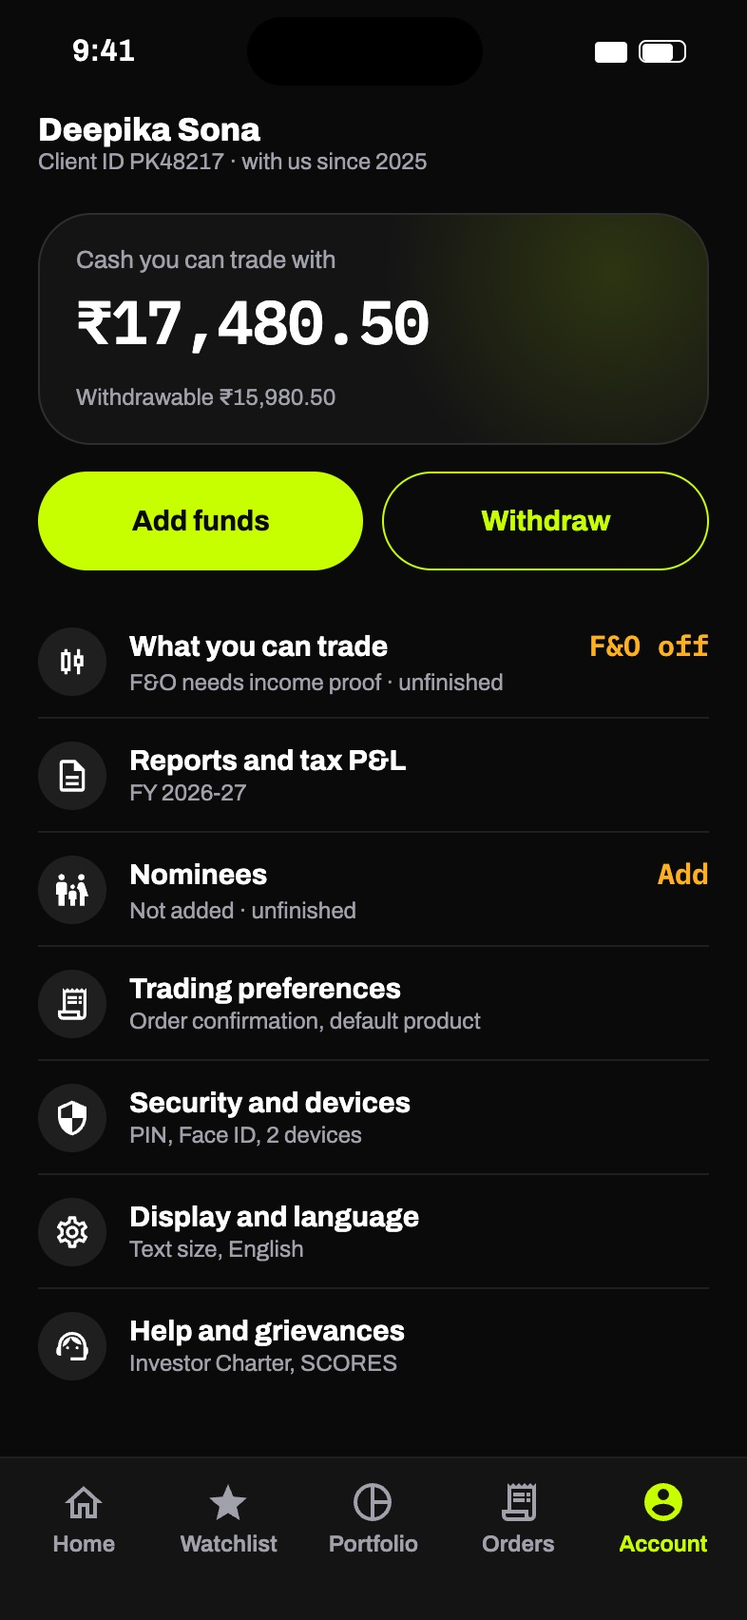
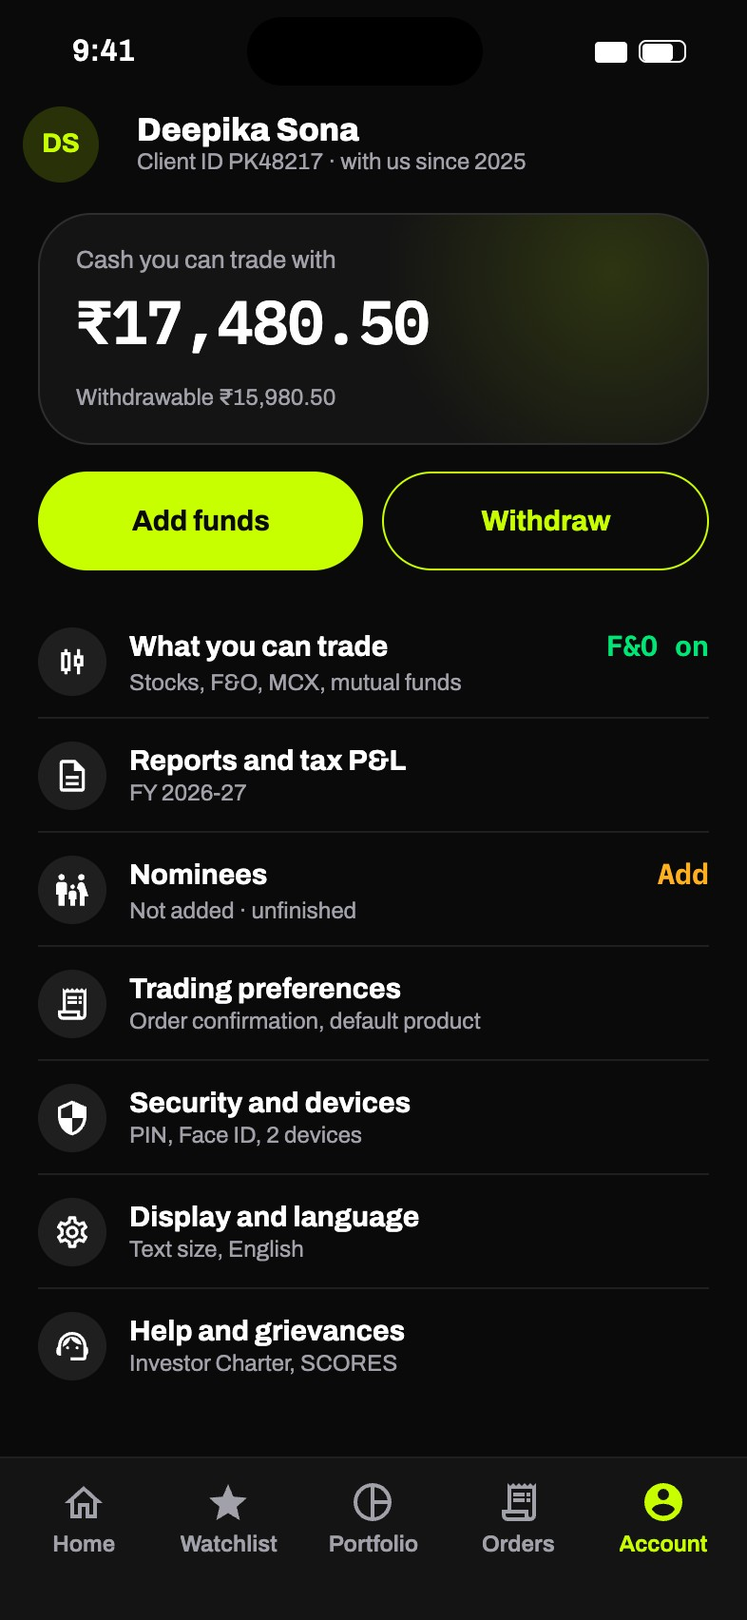
Update Pocket's Account screen and add wireframe round 29

Changed region(s): [[0.0305, 0.0622, 0.7023, 0.1244], [0.1832, 0.4043, 0.6718, 0.4354], [0.7939, 0.3732, 0.9466, 0.4043]]

diff --git a/Pocket App Wireframes.dc.html b/Pocket App Wireframes.dc.html
@@ -63,7 +63,7 @@ details.dv-body>summary{margin-bottom:10px}
 
 <section class="dv-index">
 <h1>Pocket &mdash; wireframe stack</h1>
-<p>Twenty-eight rounds in flow order. Each round is collapsed; open the one you want. Reference an option by its id in chat &mdash; 1a, 5a, 6a.</p>
+<p>Twenty-nine rounds in flow order. Each round is collapsed; open the one you want. Reference an option by its id in chat &mdash; 1a, 5a, 6a.</p>
 <div class="dv-ix">
 <a class="dv-ixrow" href="#t1"><span class="dv-ixn">1</span>Getting in<span class="dv-ixold">1a</span><span class="dv-ixdone">final</span></a>
 <a class="dv-ixrow" href="#t2"><span class="dv-ixn">2</span>Home<span class="dv-ixold">2a</span><span class="dv-ixdone">final</span></a>
@@ -93,6 +93,7 @@ details.dv-body>summary{margin-bottom:10px}
 <a class="dv-ixrow" href="#t26"><span class="dv-ixn">26</span>Indices, movers and news<span class="dv-ixold">26a &middot; 26b</span></a>
 <a class="dv-ixrow" href="#t27"><span class="dv-ixn">27</span>Commodities and option chain<span class="dv-ixold">27a&ndash;27c</span></a>
 <a class="dv-ixrow" href="#t28"><span class="dv-ixn">28</span>Screen states from the 14 Nov hi-fi<span class="dv-ixold">28a&ndash;28c</span></a>
+<a class="dv-ixrow" href="#t29"><span class="dv-ixn">29</span>Account and funds changes in the hi-fi after 11 Nov<span class="dv-ixold">29a &middot; 29b</span></a>
 </div>
 </section>
 
@@ -4592,6 +4593,14 @@ details.dv-body>summary{margin-bottom:10px}
 <div class="dv-opt" id="28a"><p style="margin:0 0 10px;font:400 12px/1.55 system-ui,sans-serif;color:rgba(0,0,0,.5);max-width:78ch">The chips on Positions, Tradebook, Top movers and IPOs were drawn in one state and did nothing in the app. Each now filters the list, and totals follow: the positions P&amp;L is the sum of what is shown, and the tradebook names the count for that period and segment. An empty filter says what would show there.</p><div class="dv-olabel"><a class="dv-oid" href="#28a">28a</a>Filters that filter: positions, tradebook, IPOs, movers</div><div class="dv-card" style="padding:22px;background:#faf9f6;display:flex;flex-wrap:wrap;gap:20px"><div style="width:250px;height:560px;border:1.5px solid #1a1a1a;border-radius:20px;background:#fff;box-sizing:border-box;padding:10px 12px;display:flex;flex-direction:column;gap:9px;font-family:'Architects Daughter',cursive"><div style="display:flex;justify-content:space-between;font-size:10px;color:#888">9:41<span>&#9679;&#9679;&#9679;</span></div><div style="display:flex;flex-direction:column"><span style="font-size:12px">Portfolio</span><span style="font-size:8px;color:#666">Positions</span></div><div style="display:flex;gap:4px;flex-wrap:wrap"><span style="font-size:8.5px;padding:3px 8px;border:1.2px solid #1a1a1a;border-radius:12px;background:#fff">All 2</span><span style="font-size:8.5px;padding:3px 8px;border:1.2px solid #1a1a1a;border-radius:12px;background:#CCFF00">F&amp;O 1</span><span style="font-size:8.5px;padding:3px 8px;border:1.2px solid #1a1a1a;border-radius:12px;background:#fff">Equity 1</span><span style="font-size:8.5px;padding:3px 8px;border:1.2px solid #1a1a1a;border-radius:12px;background:#fff">MCX 0</span></div><div style="border:1.2px solid #1a1a1a;border-radius:8px;padding:6px 8px;display:flex;flex-direction:column;gap:3px"><div style="display:flex;justify-content:space-between;font-size:8.5px"><span style="color:#666">Positions P&amp;L today</span><span>+₹988</span></div></div><div style="display:flex;flex-direction:column"><div style="display:flex;justify-content:space-between;gap:6px;padding:5px 0;border-bottom:1px solid #ddd"><div style="display:flex;flex-direction:column;min-width:0"><span style="font-size:10px">NIFTY 24800 CE</span><span style="font-size:7.5px;color:#666">NFO · Intraday · 130 qty</span></div><div style="display:flex;flex-direction:column;align-items:flex-end"><span style="font-size:9.5px">+₹988</span><span style="font-size:7.5px;color:#666">LTP ₹106.20</span></div></div></div><span style="font-size:8px;color:#666;line-height:1.4">MCX 0 shows &quot;No MCX positions&quot; and where commodities trade.</span><div style="margin-top:auto;display:flex;justify-content:space-around;font-size:8px;color:#888;border-top:1px solid #ddd;padding-top:5px"><span>Home</span><span>Watchlist</span><span>Portfolio</span><span>Orders</span><span>Account</span></div></div><div style="width:250px;height:560px;border:1.5px solid #1a1a1a;border-radius:20px;background:#fff;box-sizing:border-box;padding:10px 12px;display:flex;flex-direction:column;gap:9px;font-family:'Architects Daughter',cursive"><div style="display:flex;justify-content:space-between;font-size:10px;color:#888">9:41<span>&#9679;&#9679;&#9679;</span></div><div style="display:flex;flex-direction:column"><span style="font-size:12px">&larr; &nbsp;Tradebook</span><span style="font-size:8px;color:#666">Every executed trade</span></div><div style="display:flex;gap:4px;flex-wrap:wrap"><span style="font-size:8.5px;padding:3px 8px;border:1.2px solid #1a1a1a;border-radius:12px;background:#CCFF00">This month</span><span style="font-size:8.5px;padding:3px 8px;border:1.2px solid #1a1a1a;border-radius:12px;background:#fff">Last 3 months</span><span style="font-size:8.5px;padding:3px 8px;border:1.2px solid #1a1a1a;border-radius:12px;background:#fff">FY 2025-26</span><span style="font-size:8.5px;padding:3px 8px;border:1.2px solid #1a1a1a;border-radius:12px;background:#fff">Custom</span></div><div style="display:flex;gap:4px;flex-wrap:wrap"><span style="font-size:8.5px;padding:3px 8px;border:1.2px solid #1a1a1a;border-radius:12px;background:#fff">All</span><span style="font-size:8.5px;padding:3px 8px;border:1.2px solid #1a1a1a;border-radius:12px;background:#fff">Equity</span><span style="font-size:8.5px;padding:3px 8px;border:1.2px solid #1a1a1a;border-radius:12px;background:#CCFF00">F&amp;O</span><span style="font-size:8.5px;padding:3px 8px;border:1.2px solid #1a1a1a;border-radius:12px;background:#fff">MCX</span><span style="font-size:8.5px;padding:3px 8px;border:1.2px solid #1a1a1a;border-radius:12px;background:#fff">MF</span></div><div style="display:flex;flex-direction:column"><div style="display:flex;justify-content:space-between;gap:6px;padding:5px 0;border-bottom:1px solid #ddd"><div style="display:flex;flex-direction:column;min-width:0"><span style="font-size:10px">NIFTY 24800 CE · Buy</span><span style="font-size:7.5px;color:#666">130 at ₹98.60 · NRML</span></div><div style="display:flex;flex-direction:column;align-items:flex-end"><span style="font-size:9.5px">22 Oct</span><span style="font-size:7.5px;color:#666">10:02 am</span></div></div></div><span style="font-size:8px;color:#666;line-height:1.4">11 F&amp;O trades in October.</span><div style="margin-top:auto;border:1.5px solid #1a1a1a;border-radius:14px;padding:7px;text-align:center;font-size:10px;background:#CCFF00">Download PDF</div></div><div style="width:250px;height:560px;border:1.5px solid #1a1a1a;border-radius:20px;background:#fff;box-sizing:border-box;padding:10px 12px;display:flex;flex-direction:column;gap:9px;font-family:'Architects Daughter',cursive"><div style="display:flex;justify-content:space-between;font-size:10px;color:#888">9:41<span>&#9679;&#9679;&#9679;</span></div><div style="display:flex;flex-direction:column"><span style="font-size:12px">IPOs</span><span style="font-size:8px;color:#666"></span></div><div style="display:flex;gap:12px;font-size:9px;border-bottom:1px solid #ddd"><span style="padding-bottom:3px;color:#888">Open 7</span><span style="padding-bottom:3px;color:#888">Upcoming 23</span><span style="padding-bottom:3px;border-bottom:2px solid #1a1a1a;font-weight:700">Applied 2</span><span style="padding-bottom:3px;color:#888">Closed</span></div><div style="display:flex;gap:4px;flex-wrap:wrap"><span style="font-size:8.5px;padding:3px 8px;border:1.2px solid #1a1a1a;border-radius:12px;background:#CCFF00">All</span><span style="font-size:8.5px;padding:3px 8px;border:1.2px solid #1a1a1a;border-radius:12px;background:#fff">Mainboard</span><span style="font-size:8.5px;padding:3px 8px;border:1.2px solid #1a1a1a;border-radius:12px;background:#fff">SME</span></div><div style="display:flex;flex-direction:column"><div style="display:flex;justify-content:space-between;gap:6px;padding:5px 0;border-bottom:1px solid #ddd"><div style="display:flex;flex-direction:column;min-width:0"><span style="font-size:10px">Lalithaa Jewellery Mart · Applied</span><span style="font-size:7.5px;color:#666">Allotment Thu 20 Aug</span></div><div style="display:flex;flex-direction:column;align-items:flex-end"><span style="font-size:9.5px">2 lots</span><span style="font-size:7.5px;color:#666">₹29,748 blocked</span></div></div><div style="display:flex;justify-content:space-between;gap:6px;padding:5px 0;border-bottom:1px solid #ddd"><div style="display:flex;flex-direction:column;min-width:0"><span style="font-size:10px">ENS Enterprises · Pending</span><span style="font-size:7.5px;color:#666">Approve the UPI request by 5 pm</span></div><div style="display:flex;flex-direction:column;align-items:flex-end"><span style="font-size:9.5px">1 lot</span><span style="font-size:7.5px;color:#666">₹1,10,400</span></div></div></div><div style="margin-top:auto;display:flex;justify-content:space-around;font-size:8px;color:#888;border-top:1px solid #ddd;padding-top:5px"><span>Home</span><span>Watchlist</span><span>Portfolio</span><span>Orders</span><span>Account</span></div></div></div></div>
 <div class="dv-opt" id="28b"><p style="margin:0 0 10px;font:400 12px/1.55 system-ui,sans-serif;color:rgba(0,0,0,.5);max-width:78ch">Apply for an IPO picks the category and the lots on one screen; the button names the lots and the amount (&quot;Apply for 3 lots · ₹44,622&quot;). HNI starts above ₹2 lakh and bids a price; Employee gets ₹10 off. Pause SIP shows what is skipped and when it restarts for each length. Edit SIP can move the date: the Date tile opens the date picker, and the new date applies from the next open instalment.</p><div class="dv-olabel"><a class="dv-oid" href="#28b">28b</a>IPO category and lots, SIP pause and date</div><div class="dv-card" style="padding:22px;background:#faf9f6;display:flex;flex-wrap:wrap;gap:20px"><div style="width:250px;height:560px;border:1.5px solid #1a1a1a;border-radius:20px;background:#fff;box-sizing:border-box;padding:10px 12px;display:flex;flex-direction:column;gap:9px;font-family:'Architects Daughter',cursive"><div style="display:flex;justify-content:space-between;font-size:10px;color:#888">9:41<span>&#9679;&#9679;&#9679;</span></div><div style="display:flex;flex-direction:column"><span style="font-size:12px">&larr; &nbsp;Apply for Lalithaa</span><span style="font-size:8px;color:#666">Closes 19 Aug, 5 pm</span></div><div style="display:flex;gap:12px;font-size:9px;border-bottom:1px solid #ddd"><span style="padding-bottom:3px;border-bottom:2px solid #1a1a1a;font-weight:700">Retail</span><span style="padding-bottom:3px;color:#888">HNI</span><span style="padding-bottom:3px;color:#888">Employee</span></div><div style="display:grid;grid-template-columns:1fr 1fr;gap:5px"><div style="border:1.2px solid #1a1a1a;border-radius:8px;padding:5px 7px;display:flex;justify-content:space-between;align-items:center"><div style="display:flex;flex-direction:column"><span style="font-size:7.5px;color:#666">Lots</span><span style="font-size:10px">3</span></div><span style="font-size:10px;letter-spacing:6px">&minus;+</span></div><div style="border:1.2px solid #1a1a1a;border-radius:8px;padding:5px 7px;display:flex;justify-content:space-between;align-items:center"><div style="display:flex;flex-direction:column"><span style="font-size:7.5px;color:#666">Shares</span><span style="font-size:10px">222</span></div></div><div style="border:1.2px solid #1a1a1a;border-radius:8px;padding:5px 7px;display:flex;justify-content:space-between;align-items:center"><div style="display:flex;flex-direction:column"><span style="font-size:7.5px;color:#666">Bid price</span><span style="font-size:10px">₹201 (cut-off)</span></div></div><div style="border:1.2px solid #1a1a1a;border-radius:8px;padding:5px 7px;display:flex;justify-content:space-between;align-items:center"><div style="display:flex;flex-direction:column"><span style="font-size:7.5px;color:#666">Amount</span><span style="font-size:10px">₹44,622</span></div></div></div><div style="border:1.2px solid #1a1a1a;border-radius:8px;padding:6px 8px;display:flex;flex-direction:column;gap:3px"><div style="display:flex;justify-content:space-between;font-size:8.5px"><span style="color:#666">UPI ID</span><span>deepika@okhdfc</span></div></div><span style="font-size:8px;color:#666;line-height:1.4">₹44,622 will be blocked in your UPI until allotment on 20 Aug.</span><div style="margin-top:auto;border:1.5px solid #1a1a1a;border-radius:14px;padding:7px;text-align:center;font-size:10px;background:#CCFF00">Apply for 3 lots · ₹44,622</div></div><div style="width:250px;height:560px;border:1.5px solid #1a1a1a;border-radius:20px;background:#fff;box-sizing:border-box;padding:10px 12px;display:flex;flex-direction:column;gap:9px;font-family:'Architects Daughter',cursive"><div style="display:flex;justify-content:space-between;font-size:10px;color:#888">9:41<span>&#9679;&#9679;&#9679;</span></div><div style="display:flex;flex-direction:column"><span style="font-size:12px">&larr; &nbsp;Pause SIP</span><span style="font-size:8px;color:#666">Parag Parikh Flexi Cap · ₹5,000 on the 5th</span></div><span style="font-size:15px">For how long?</span><div style="display:flex;gap:4px;flex-wrap:wrap"><span style="font-size:8.5px;padding:3px 8px;border:1.2px solid #1a1a1a;border-radius:12px;background:#fff">1 month</span><span style="font-size:8.5px;padding:3px 8px;border:1.2px solid #1a1a1a;border-radius:12px;background:#fff">2 months</span><span style="font-size:8.5px;padding:3px 8px;border:1.2px solid #1a1a1a;border-radius:12px;background:#CCFF00">3 months</span><span style="font-size:8.5px;padding:3px 8px;border:1.2px solid #1a1a1a;border-radius:12px;background:#fff">6 months</span></div><div style="border:1.2px solid #1a1a1a;border-radius:8px;padding:6px 8px;display:flex;flex-direction:column;gap:3px"><div style="display:flex;justify-content:space-between;font-size:8.5px"><span style="color:#666">Skipped</span><span>5 Oct to 5 Dec</span></div><div style="display:flex;justify-content:space-between;font-size:8.5px"><span style="color:#666">Restarts on its own</span><span>Tue 5 Jan</span></div><div style="display:flex;justify-content:space-between;font-size:8.5px"><span style="color:#666">5 Sep debit</span><span>Goes ahead</span></div></div><div style="margin-top:auto;border:1.5px solid #1a1a1a;border-radius:14px;padding:7px;text-align:center;font-size:10px;background:#CCFF00">Pause for 3 months</div></div><div style="width:250px;height:560px;border:1.5px solid #1a1a1a;border-radius:20px;background:#fff;box-sizing:border-box;padding:10px 12px;display:flex;flex-direction:column;gap:9px;font-family:'Architects Daughter',cursive"><div style="display:flex;justify-content:space-between;font-size:10px;color:#888">9:41<span>&#9679;&#9679;&#9679;</span></div><div style="display:flex;flex-direction:column"><span style="font-size:12px">&larr; &nbsp;Edit SIP</span><span style="font-size:8px;color:#666">Parag Parikh Flexi Cap · Date</span></div><span style="font-size:15px">Which day each month?</span><div style="display:flex;gap:4px;flex-wrap:wrap"><span style="font-size:8.5px;padding:3px 8px;border:1.2px solid #1a1a1a;border-radius:12px;background:#fff">1st</span><span style="font-size:8.5px;padding:3px 8px;border:1.2px solid #1a1a1a;border-radius:12px;background:#fff">5th</span><span style="font-size:8.5px;padding:3px 8px;border:1.2px solid #1a1a1a;border-radius:12px;background:#CCFF00">10th</span><span style="font-size:8.5px;padding:3px 8px;border:1.2px solid #1a1a1a;border-radius:12px;background:#fff">15th</span><span style="font-size:8.5px;padding:3px 8px;border:1.2px solid #1a1a1a;border-radius:12px;background:#fff">20th</span><span style="font-size:8.5px;padding:3px 8px;border:1.2px solid #1a1a1a;border-radius:12px;background:#fff">25th</span></div><span style="font-size:8px;color:#666;line-height:1.4">The 5 Sep debit stays as it is. The new date applies from Sat 10 Oct.</span><div style="margin-top:auto;border:1.5px solid #1a1a1a;border-radius:14px;padding:7px;text-align:center;font-size:10px;background:#CCFF00">Use the 10th</div></div></div></div>
 <div class="dv-opt" id="28c"><p style="margin:0 0 10px;font:400 12px/1.55 system-ui,sans-serif;color:rgba(0,0,0,.5);max-width:78ch">Home › Products › Bonds opened one bond and ETFs opened one ETF. Each now opens a list with type filters, and a row opens the detail. Add a nominee takes a second nominee: shares split to 50% each, with a way to remove the second one.</p><div class="dv-olabel"><a class="dv-oid" href="#28c">28c</a>Bonds and ETF lists, a second nominee</div><div class="dv-card" style="padding:22px;background:#faf9f6;display:flex;flex-wrap:wrap;gap:20px"><div style="width:250px;height:560px;border:1.5px solid #1a1a1a;border-radius:20px;background:#fff;box-sizing:border-box;padding:10px 12px;display:flex;flex-direction:column;gap:9px;font-family:'Architects Daughter',cursive"><div style="display:flex;justify-content:space-between;font-size:10px;color:#888">9:41<span>&#9679;&#9679;&#9679;</span></div><div style="display:flex;flex-direction:column"><span style="font-size:12px">Bonds</span><span style="font-size:8px;color:#666">Government and PSU · bids close 5 pm</span></div><div style="display:flex;gap:4px;flex-wrap:wrap"><span style="font-size:8.5px;padding:3px 8px;border:1.2px solid #1a1a1a;border-radius:12px;background:#CCFF00">All</span><span style="font-size:8.5px;padding:3px 8px;border:1.2px solid #1a1a1a;border-radius:12px;background:#fff">G-Sec</span><span style="font-size:8.5px;padding:3px 8px;border:1.2px solid #1a1a1a;border-radius:12px;background:#fff">State</span><span style="font-size:8.5px;padding:3px 8px;border:1.2px solid #1a1a1a;border-radius:12px;background:#fff">T-Bill</span><span style="font-size:8.5px;padding:3px 8px;border:1.2px solid #1a1a1a;border-radius:12px;background:#fff">PSU</span></div><div style="display:flex;flex-direction:column"><div style="display:flex;justify-content:space-between;gap:6px;padding:5px 0;border-bottom:1px solid #ddd"><div style="display:flex;flex-direction:column;min-width:0"><span style="font-size:10px">6.94% GS 2036</span><span style="font-size:7.5px;color:#666">Govt of India · matures 2036</span></div><div style="display:flex;flex-direction:column;align-items:flex-end"><span style="font-size:9.5px">6.87%</span><span style="font-size:7.5px;color:#666">min ₹10,050</span></div></div><div style="display:flex;justify-content:space-between;gap:6px;padding:5px 0;border-bottom:1px solid #ddd"><div style="display:flex;flex-direction:column;min-width:0"><span style="font-size:10px">7.46% Maharashtra SDL</span><span style="font-size:7.5px;color:#666">State loan · matures 2034</span></div><div style="display:flex;flex-direction:column;align-items:flex-end"><span style="font-size:9.5px">7.21%</span><span style="font-size:7.5px;color:#666">min ₹10,120</span></div></div><div style="display:flex;justify-content:space-between;gap:6px;padding:5px 0;border-bottom:1px solid #ddd"><div style="display:flex;flex-direction:column;min-width:0"><span style="font-size:10px">91-day T-Bill</span><span style="font-size:7.5px;color:#666">matures 12 Feb 2027</span></div><div style="display:flex;flex-direction:column;align-items:flex-end"><span style="font-size:9.5px">6.52%</span><span style="font-size:7.5px;color:#666">min ₹9,840</span></div></div><div style="display:flex;justify-content:space-between;gap:6px;padding:5px 0;border-bottom:1px solid #ddd"><div style="display:flex;flex-direction:column;min-width:0"><span style="font-size:10px">8.05% NHAI 2031</span><span style="font-size:7.5px;color:#666">PSU bond · AAA</span></div><div style="display:flex;flex-direction:column;align-items:flex-end"><span style="font-size:9.5px">7.48%</span><span style="font-size:7.5px;color:#666">min ₹10,300</span></div></div></div><span style="font-size:8px;color:#666;line-height:1.4">Bonds pay fixed interest. You can sell before maturity on NSE, but the price may be lower.</span><div style="margin-top:auto;display:flex;justify-content:space-around;font-size:8px;color:#888;border-top:1px solid #ddd;padding-top:5px"><span>Home</span><span>Watchlist</span><span>Portfolio</span><span>Orders</span><span>Account</span></div></div><div style="width:250px;height:560px;border:1.5px solid #1a1a1a;border-radius:20px;background:#fff;box-sizing:border-box;padding:10px 12px;display:flex;flex-direction:column;gap:9px;font-family:'Architects Daughter',cursive"><div style="display:flex;justify-content:space-between;font-size:10px;color:#888">9:41<span>&#9679;&#9679;&#9679;</span></div><div style="display:flex;flex-direction:column"><span style="font-size:12px">ETFs</span><span style="font-size:8px;color:#666">NSE · trade like shares</span></div><div style="display:flex;gap:4px;flex-wrap:wrap"><span style="font-size:8.5px;padding:3px 8px;border:1.2px solid #1a1a1a;border-radius:12px;background:#CCFF00">All</span><span style="font-size:8.5px;padding:3px 8px;border:1.2px solid #1a1a1a;border-radius:12px;background:#fff">Index</span><span style="font-size:8.5px;padding:3px 8px;border:1.2px solid #1a1a1a;border-radius:12px;background:#fff">Gold</span><span style="font-size:8.5px;padding:3px 8px;border:1.2px solid #1a1a1a;border-radius:12px;background:#fff">Sector</span><span style="font-size:8.5px;padding:3px 8px;border:1.2px solid #1a1a1a;border-radius:12px;background:#fff">Debt</span></div><div style="display:flex;flex-direction:column"><div style="display:flex;justify-content:space-between;gap:6px;padding:5px 0;border-bottom:1px solid #ddd"><div style="display:flex;flex-direction:column;min-width:0"><span style="font-size:10px">NIFTYBEES</span><span style="font-size:7.5px;color:#666">Nippon India ETF Nifty 50</span></div><div style="display:flex;flex-direction:column;align-items:flex-end"><span style="font-size:9.5px">₹287.42</span><span style="font-size:7.5px;color:#666">+0.41%</span></div></div><div style="display:flex;justify-content:space-between;gap:6px;padding:5px 0;border-bottom:1px solid #ddd"><div style="display:flex;flex-direction:column;min-width:0"><span style="font-size:10px">GOLDBEES</span><span style="font-size:7.5px;color:#666">Nippon India ETF Gold</span></div><div style="display:flex;flex-direction:column;align-items:flex-end"><span style="font-size:9.5px">₹81.36</span><span style="font-size:7.5px;color:#666">+0.38%</span></div></div><div style="display:flex;justify-content:space-between;gap:6px;padding:5px 0;border-bottom:1px solid #ddd"><div style="display:flex;flex-direction:column;min-width:0"><span style="font-size:10px">BANKBEES</span><span style="font-size:7.5px;color:#666">Nippon India ETF Bank</span></div><div style="display:flex;flex-direction:column;align-items:flex-end"><span style="font-size:9.5px">₹528.10</span><span style="font-size:7.5px;color:#666">−0.18%</span></div></div></div><span style="font-size:8px;color:#666;line-height:1.4">An ETF price can differ from the value of what it holds (iNAV).</span><div style="margin-top:auto;display:flex;justify-content:space-around;font-size:8px;color:#888;border-top:1px solid #ddd;padding-top:5px"><span>Home</span><span>Watchlist</span><span>Portfolio</span><span>Orders</span><span>Account</span></div></div><div style="width:250px;height:560px;border:1.5px solid #1a1a1a;border-radius:20px;background:#fff;box-sizing:border-box;padding:10px 12px;display:flex;flex-direction:column;gap:9px;font-family:'Architects Daughter',cursive"><div style="display:flex;justify-content:space-between;font-size:10px;color:#888">9:41<span>&#9679;&#9679;&#9679;</span></div><div style="display:flex;flex-direction:column"><span style="font-size:12px">&larr; &nbsp;Add a nominee</span><span style="font-size:8px;color:#666">Required by SEBI</span></div><div style="border:1.2px solid #1a1a1a;border-radius:8px;padding:6px 8px;display:flex;flex-direction:column;gap:3px"><div style="display:flex;justify-content:space-between;font-size:8.5px"><span style="color:#666">Nominee 2</span><span></span></div><div style="display:flex;justify-content:space-between;font-size:8.5px"><span style="color:#666">Name</span><span>Meena Sona</span></div><div style="display:flex;justify-content:space-between;font-size:8.5px"><span style="color:#666">Relationship</span><span>Mother</span></div><div style="display:flex;justify-content:space-between;font-size:8.5px"><span style="color:#666">Share</span><span>50%</span></div></div><span style="font-size:8px;color:#666;line-height:1.4">Arun Sona&#x27;s share drops to 50%. Shares must add up to 100%. You can name up to three.</span><div style="border:1.2px dashed #1a1a1a;border-radius:14px;padding:5px;text-align:center;font-size:9px">Remove nominee 2</div><div style="margin-top:auto;border:1.5px solid #1a1a1a;border-radius:14px;padding:7px;text-align:center;font-size:10px;background:#CCFF00">Save 2 nominees</div></div></div></div>
+</details>
+</section>
+<section class="dv-turn" id="t29">
+<div class="dv-thd"><a class="dv-tid" href="#t29">29</a><span class="dv-tname">Account and funds changes in the hi-fi after 11 Nov</span></div>
+<details class="dv-body" open=""><summary></summary>
+<p class="dv-tnote">From the hi-fi in Figma (9 · Hi-fi designs) redrawn after 11 November 2026, checked against the "Before 11 Nov" page on 19 November. Hi-fi 5, 192, 193 and 213 in Pocket Hi-Fi Screens are re-exported.</p>
+<div class="dv-opt" id="29a"><p style="margin:0 0 10px;font:400 12px/1.55 system-ui,sans-serif;color:rgba(0,0,0,.5);max-width:78ch">Account shows the person's initials beside their name; tapping them opens Who you are. The account trades F&amp;O (it has F&amp;O positions), so What you can trade says F&amp;O on, every segment but currency is on, and income proof is verified. Only the nominee is unfinished. Confirm PIN draws the plain step; "PINs don't match" appears only after a miss.</p><div class="dv-olabel"><a class="dv-oid" href="#29a">29a</a>Account: initials, F&amp;O on, segments verified</div><div class="dv-card" style="padding:22px;background:#faf9f6;display:flex;flex-wrap:wrap;gap:20px"><div style="width:250px;height:560px;border:1.5px solid #1a1a1a;border-radius:20px;background:#fff;box-sizing:border-box;padding:10px 12px;display:flex;flex-direction:column;gap:9px;font-family:'Architects Daughter',cursive"><div style="display:flex;justify-content:space-between;font-size:10px;color:#888">9:41<span>&#9679;&#9679;&#9679;</span></div><div style="display:flex;gap:6px;align-items:center"><span style="width:22px;height:22px;border-radius:50%;border:1.2px solid #1a1a1a;background:#eaffb3;font-size:8px;display:flex;align-items:center;justify-content:center">DS</span><span style="display:flex;flex-direction:column"><span style="font-size:12px">Deepika Sona</span><span style="font-size:7.5px;color:#666">Client ID PK48217</span></span></div><div style="border:1.2px solid #1a1a1a;border-radius:8px;padding:6px 8px;display:flex;flex-direction:column;gap:3px;font-size:8.5px"><span style="color:#666">Cash you can trade with</span><span style="font-size:13px">₹17,480.50</span></div><div style="display:flex;gap:6px"><span style="flex:1;text-align:center;font-size:8.5px;padding:5px 0;border:1.2px solid #1a1a1a;border-radius:14px;background:#CCFF00">Add funds</span><span style="flex:1;text-align:center;font-size:8.5px;padding:5px 0;border:1.2px solid #1a1a1a;border-radius:14px;background:#fff">Withdraw</span></div><div style="display:flex;justify-content:space-between;align-items:center;font-size:8.5px;border-bottom:1px dashed #bbb;padding:4px 0"><span>What you can trade<br><span style="color:#666;font-size:7.5px">Stocks, F&amp;O, MCX, mutual funds</span></span><span style="color:#1a7f37">F&amp;O on</span></div><div style="display:flex;justify-content:space-between;align-items:center;font-size:8.5px;border-bottom:1px dashed #bbb;padding:4px 0"><span>Nominees<br><span style="color:#666;font-size:7.5px">Not added · unfinished</span></span><span style="">Add</span></div><div style="display:flex;justify-content:space-between;align-items:center;font-size:8.5px;border-bottom:1px dashed #bbb;padding:4px 0"><span>Trading preferences<br><span style="color:#666;font-size:7.5px">Order confirmation</span></span><span style=""></span></div></div><div style="width:250px;height:560px;border:1.5px solid #1a1a1a;border-radius:20px;background:#fff;box-sizing:border-box;padding:10px 12px;display:flex;flex-direction:column;gap:9px;font-family:'Architects Daughter',cursive"><div style="display:flex;justify-content:space-between;font-size:10px;color:#888">9:41<span>&#9679;&#9679;&#9679;</span></div><span style="font-size:12px">What you can trade</span><div style="display:flex;justify-content:space-between;align-items:center;font-size:8.5px;border-bottom:1px dashed #bbb;padding:4px 0"><span>Stocks<br><span style="color:#666;font-size:7.5px">NSE, BSE</span></span><span style="">On</span></div><div style="display:flex;justify-content:space-between;align-items:center;font-size:8.5px;border-bottom:1px dashed #bbb;padding:4px 0"><span>F&amp;O<br><span style="color:#666;font-size:7.5px">Futures and options · NSE, BSE</span></span><span style="">On</span></div><div style="display:flex;justify-content:space-between;align-items:center;font-size:8.5px;border-bottom:1px dashed #bbb;padding:4px 0"><span>Commodities<br><span style="color:#666;font-size:7.5px">MCX</span></span><span style="">On</span></div><div style="display:flex;justify-content:space-between;align-items:center;font-size:8.5px;border-bottom:1px dashed #bbb;padding:4px 0"><span>Currency<br><span style="color:#666;font-size:7.5px">NSE: USD, EUR, GBP, JPY</span></span><span style="">Off</span></div><div style="border:1.2px solid #1a1a1a;border-radius:8px;padding:6px 8px;display:flex;flex-direction:column;gap:3px;font-size:8.5px"><div style="display:flex;justify-content:space-between"><span>Income proof on file</span><span>Verified</span></div></div><div style="border:1.2px solid #1a1a1a;border-radius:8px;padding:6px 8px;display:flex;flex-direction:column;gap:3px;font-size:8.5px"><span>Before you trade F&amp;O</span><span style="color:#666;font-size:7.5px">91% of individual traders lost money in F&amp;O in FY25 (SEBI).</span></div></div></div></div>
+<div class="dv-opt" id="29b"><p style="margin:0 0 10px;font:400 12px/1.55 system-ui,sans-serif;color:rgba(0,0,0,.5);max-width:78ch">The hi-fi adds Home with the money just added in the cash figure. In the app, reaching "₹5,000 added" adds it to the cash on Home and Funds, and "Back to home" goes Home (it used to open Withdraw).</p><div class="dv-olabel"><a class="dv-oid" href="#29b">29b</a>Home after adding money</div><div class="dv-card" style="padding:22px;background:#faf9f6;display:flex;flex-wrap:wrap;gap:20px"><div style="width:250px;height:560px;border:1.5px solid #1a1a1a;border-radius:20px;background:#fff;box-sizing:border-box;padding:10px 12px;display:flex;flex-direction:column;gap:9px;font-family:'Architects Daughter',cursive"><div style="display:flex;justify-content:space-between;font-size:10px;color:#888">9:41<span>&#9679;&#9679;&#9679;</span></div><span style="font-size:12px">POCKET</span><div style="border:1.2px solid #1a1a1a;border-radius:8px;padding:6px 8px;display:flex;flex-direction:column;gap:3px;font-size:8.5px"><span style="color:#666">Portfolio value</span><span style="font-size:13px">₹1,03,255.60</span><div style="display:flex;justify-content:space-between"><span>Cash <b>₹22,480.50</b></span><span style="border:1.2px solid #1a1a1a;border-radius:10px;background:#CCFF00;padding:1px 6px">Add funds</span></div></div><span style="font-size:8px;color:#666">After "₹5,000 added" › Back to home, the cash includes the money just added.</span></div></div></div>
 </details>
 </section>
 
